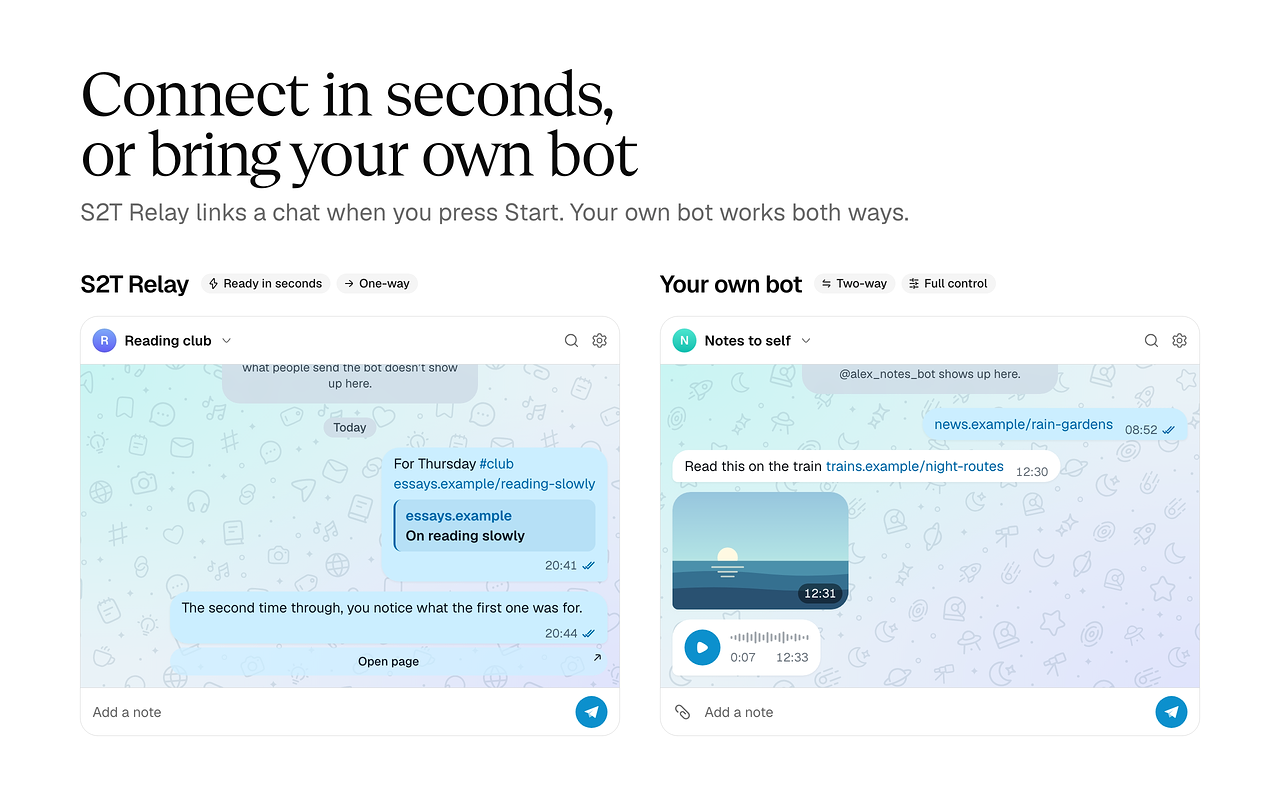
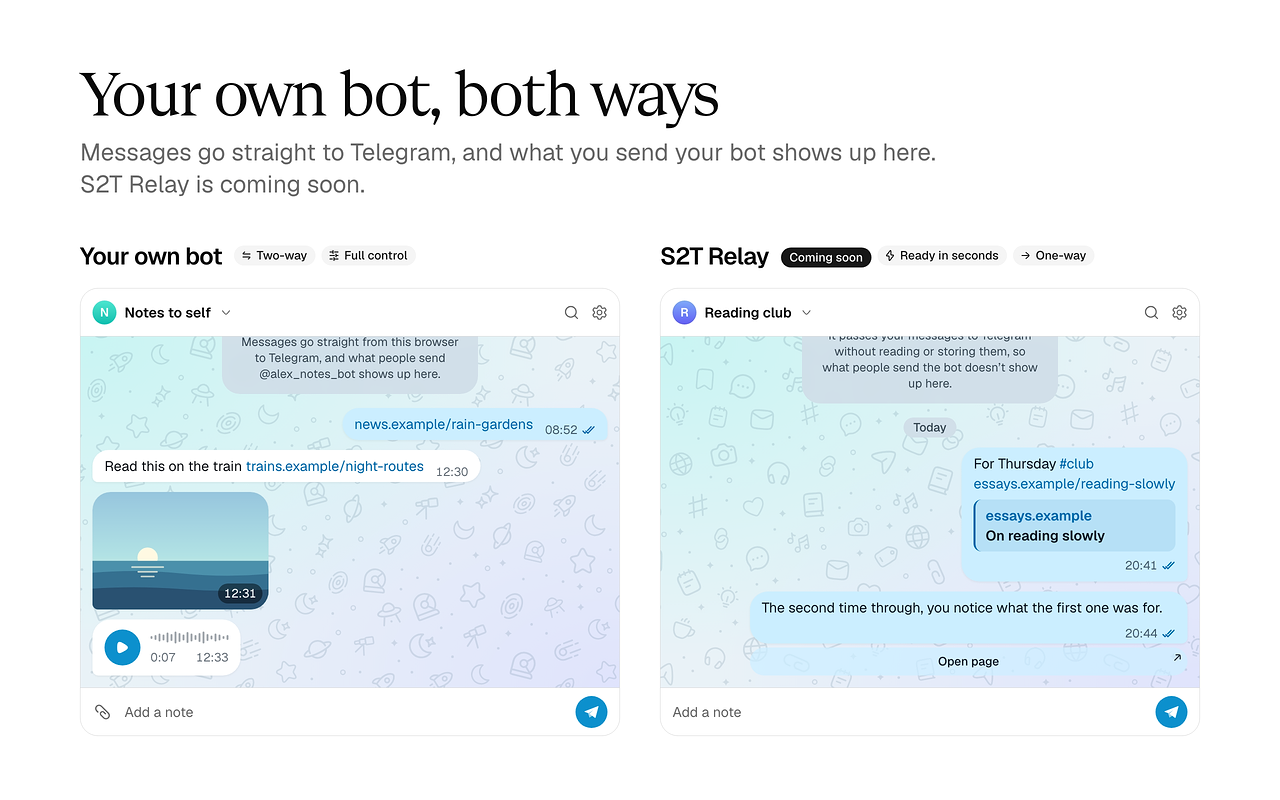
docs(site): mark S2T Relay as coming soon
The connect section, FAQ, privacy policy and the Connect store slide now
describe your own bot as the way to connect, with S2T Relay coming soon.
Recaptures screenshot-4 for every store and theme.

diff --git a/packages/site/src/components/sections/connect.tsx b/packages/site/src/components/sections/connect.tsx
@@ -61,6 +61,8 @@ const rows = [
 type Way = {
   id: string;
   title: string;
+  /** Not in the extension yet. */
+  soon?: boolean;
   badges: { icon: typeof BotIcon; label: string }[];
   summary: string;
   route: ReactNode;
@@ -70,73 +72,6 @@ type Way = {
 };
 
 const ways: Way[] = [
-  {
-    id: 'relay',
-    title: 'S2T Relay',
-    badges: [
-      { icon: FlashIcon, label: 'Ready in seconds' },
-      { icon: ArrowRight02Icon, label: 'One-way' },
-    ],
-    summary:
-      'Press Start in Telegram and the chat is linked. A small relay passes your messages on to Telegram without reading or storing them.',
-    route: (
-      <Route>
-        <Stop label="This browser" align="start">
-          <HugeiconsIcon icon={BrowserIcon} strokeWidth={1.8} aria-hidden />
-        </Stop>
-        <Leg>
-          <Dot className="animate-travel" />
-        </Leg>
-        <Stop label="relay.s2t.dev">
-          <HugeiconsIcon icon={Shield01Icon} strokeWidth={1.8} aria-hidden />
-        </Stop>
-        <Leg>
-          <Dot className="animate-travel-next" />
-        </Leg>
-        <Telegram />
-      </Route>
-    ),
-    chat: (
-      <ChatWindow
-        label="A chat sent with S2T Relay: a link with a note and #club, then a quote with an Open page button"
-        name="Reading club"
-        tone="violet"
-        pattern="doodles"
-      >
-        <ServiceNote icon={Shield01Icon} title="Sent with S2T Relay">
-          It passes your messages to Telegram without reading or storing them,
-          so what people send the bot doesn’t show up here.
-        </ServiceNote>
-        <DayMarker>Today</DayMarker>
-        <Outgoing
-          time="20:41"
-          card={<LinkCard site="essays.example" title="On reading slowly" />}
-        >
-          {'For Thursday '}
-          <Accent>#club</Accent>
-          {'\n'}
-          <Accent>essays.example/reading-slowly</Accent>
-        </Outgoing>
-        <Outgoing time="20:44" button="Open page">
-          The second time through, you notice what the first one was for.
-        </Outgoing>
-      </ChatWindow>
-    ),
-    facts: {
-      setup: 'Press Start in Telegram.',
-      time: 'A few seconds.',
-      stored:
-        'A hash of your browser’s token, its name (such as “Chrome on macOS”) and the chat it sends to. Never your messages.',
-      incoming:
-        'Messages sent to the chat stay in Telegram. The relay only sends one way.',
-      files:
-        'Text, links, pages and images. Attaching a file needs your own bot.',
-    },
-    more: {
-      href: links.relay,
-      label: 'Read the relay’s code, or host your own',
-    },
-  },
   {
     id: 'own-bot',
     title: 'Your own bot',
@@ -198,6 +133,74 @@ const ways: Way[] = [
     },
     more: { href: links.botFather, label: 'Open @BotFather in Telegram' },
   },
+  {
+    id: 'relay',
+    title: 'S2T Relay',
+    soon: true,
+    badges: [
+      { icon: FlashIcon, label: 'Ready in seconds' },
+      { icon: ArrowRight02Icon, label: 'One-way' },
+    ],
+    summary:
+      'Press Start in Telegram and the chat is linked. A small relay passes your messages on to Telegram without reading or storing them.',
+    route: (
+      <Route>
+        <Stop label="This browser" align="start">
+          <HugeiconsIcon icon={BrowserIcon} strokeWidth={1.8} aria-hidden />
+        </Stop>
+        <Leg>
+          <Dot className="animate-travel" />
+        </Leg>
+        <Stop label="relay.s2t.dev">
+          <HugeiconsIcon icon={Shield01Icon} strokeWidth={1.8} aria-hidden />
+        </Stop>
+        <Leg>
+          <Dot className="animate-travel-next" />
+        </Leg>
+        <Telegram />
+      </Route>
+    ),
+    chat: (
+      <ChatWindow
+        label="A chat sent with S2T Relay: a link with a note and #club, then a quote with an Open page button"
+        name="Reading club"
+        tone="violet"
+        pattern="doodles"
+      >
+        <ServiceNote icon={Shield01Icon} title="Sent with S2T Relay">
+          It passes your messages to Telegram without reading or storing them,
+          so what people send the bot doesn’t show up here.
+        </ServiceNote>
+        <DayMarker>Today</DayMarker>
+        <Outgoing
+          time="20:41"
+          card={<LinkCard site="essays.example" title="On reading slowly" />}
+        >
+          {'For Thursday '}
+          <Accent>#club</Accent>
+          {'\n'}
+          <Accent>essays.example/reading-slowly</Accent>
+        </Outgoing>
+        <Outgoing time="20:44" button="Open page">
+          The second time through, you notice what the first one was for.
+        </Outgoing>
+      </ChatWindow>
+    ),
+    facts: {
+      setup: 'Press Start in Telegram.',
+      time: 'A few seconds.',
+      stored:
+        'A hash of your browser’s token, its name (such as “Chrome on macOS”) and the chat it sends to. Never your messages.',
+      incoming:
+        'Messages sent to the chat stay in Telegram. The relay only sends one way.',
+      files:
+        'Text, links, pages and images. Attaching a file needs your own bot.',
+    },
+    more: {
+      href: links.relay,
+      label: 'Read the relay’s code',
+    },
+  },
 ];
 
 /** One way's name, badges and chat, without the rest, for the store pictures. */
@@ -210,7 +213,7 @@ export function WayPreview({ id }: { id: string }) {
     <div className="flex size-full flex-col gap-4">
       <div className="flex items-center gap-3">
         <h2 className="text-2xl font-semibold tracking-tight">{way.title}</h2>
-        <WayBadges badges={way.badges} />
+        <WayBadges way={way} />
       </div>
       <div className="min-h-0 flex-1">{way.chat}</div>
     </div>
@@ -224,8 +227,8 @@ export function Connect() {
       className="page flex flex-col gap-14 py-24"
     >
       <SectionHeading id="connect" title="Two ways to connect a chat">
-        Link a chat in seconds with S2T Relay, or use your own bot for a direct,
-        two-way connection. Each chat can use either.
+        Use your own bot for a direct, two-way connection. S2T Relay, which
+        links a chat in seconds, is coming soon.
       </SectionHeading>
       <div className="grid gap-y-20 lg:grid-cols-2 lg:gap-x-16 lg:gap-y-6">
         {ways.map((way) => (
@@ -242,7 +245,7 @@ export function Connect() {
                 >
                   {way.title}
                 </h3>
-                <WayBadges badges={way.badges} />
+                <WayBadges way={way} />
               </div>
               <p className="text-muted-foreground">{way.summary}</p>
             </div>
@@ -282,10 +285,15 @@ export function Connect() {
 }
 
 /** What sets a way apart, in a word or two each. */
-function WayBadges({ badges }: { badges: Way['badges'] }) {
+function WayBadges({ way }: { way: Way }) {
   return (
     <ul className="flex flex-wrap gap-1.5">
-      {badges.map((badge) => (
+      {way.soon ? (
+        <li>
+          <Badge>Coming soon</Badge>
+        </li>
+      ) : null}
+      {way.badges.map((badge) => (
         <li key={badge.label}>
           <Badge variant="secondary">
             <HugeiconsIcon

diff --git a/packages/site/src/components/privacy-policy.tsx b/packages/site/src/components/privacy-policy.tsx
@@ -6,7 +6,7 @@ export function Privacy() {
     <Article
       title="Privacy policy"
       lede="Send to Telegram keeps as little as it can. This page lists everything it stores, where it keeps it, and how to remove it."
-      note="Last updated 1 November 2026"
+      note="Last updated 4 November 2026"
     >
       <ArticleSection title="The short version">
         <ul>
@@ -16,8 +16,8 @@ export function Privacy() {
           </li>
           <li>Your chats, bot tokens and history stay in your browser.</li>
           <li>
-            S2T Relay passes your messages on to Telegram and never stores or
-            logs them.
+            Messages go straight from your browser to Telegram, with nothing in
+            between.
           </li>
         </ul>
       </ArticleSection>
@@ -41,58 +41,19 @@ export function Privacy() {
 
       <ArticleSection title="When you send">
         <p>
-          With your own bot, the extension sends straight to Telegram’s Bot API
-          at api.telegram.org, using your bot’s token. Nothing sits in between.
-        </p>
-        <p>
-          With S2T Relay, it sends to relay.s2t.dev, which hands the message to
-          Telegram. Once delivered, your messages are covered by{' '}
+          The extension sends straight to Telegram’s Bot API at
+          api.telegram.org, using your bot’s token. Nothing sits in between.
+          Once delivered, your messages are covered by{' '}
           <a href={links.telegramPrivacy}>Telegram’s privacy policy</a>.
         </p>
       </ArticleSection>
 
-      <ArticleSection title="What S2T Relay stores">
-        <p>For each browser linked to a chat, the relay keeps:</p>
-        <ul>
-          <li>
-            A SHA-256 hash of the browser’s random token, never the token itself
-          </li>
-          <li>The browser’s name, such as “Chrome on macOS”</li>
-          <li>The chat it sends to: its ID, title and type</li>
-          <li>When it was linked and when it was last used</li>
-          <li>
-            While linking, a one-time code that expires. Links that are never
-            finished are deleted every day.
-          </li>
-        </ul>
+      <ArticleSection title="S2T Relay">
         <p>
-          <strong>Your messages aren’t stored or logged.</strong> The relay
-          passes them to Telegram and keeps nothing. Request logging is off, and
-          errors are logged by type only.
+          S2T Relay, a way to connect a chat without your own bot, is coming
+          soon. The extension doesn’t use it yet. Before it does, this page will
+          list what the relay stores.
         </p>
-        <p>
-          Your IP address is used only to limit how many requests one network
-          can make in a minute. It isn’t written to the relay’s database.
-        </p>
-        <p>
-          The relay runs on Cloudflare Workers, so Cloudflare handles its
-          requests. Its code is <a href={links.relay}>open source</a>, and you
-          can host your own.
-        </p>
-      </ArticleSection>
-
-      <ArticleSection title="Removing a browser from the relay">
-        <ul>
-          <li>Remove the chat in the extension’s settings.</li>
-          <li>
-            Or send /devices to @S2TRelayBot in the chat and unlink the browser
-            there.
-          </li>
-          <li>
-            Removing or blocking the bot deletes every browser linked to that
-            chat.
-          </li>
-        </ul>
       </ArticleSection>
 
       <ArticleSection title="Permissions">

diff --git a/packages/site/src/components/faq.tsx b/packages/site/src/components/faq.tsx
@@ -20,10 +20,10 @@ const questions: { question: string; answer: ReactNode }[] = [
     question: 'Do I need to create a Telegram bot?',
     answer: (
       <p>
-        No. With S2T Relay, you press Start in Telegram and the chat is linked
-        in seconds. Create your own bot with{' '}
-        <a href={links.botFather}>@BotFather</a> when you want what’s sent to
-        the chat to show up in the popup, or to send files.
+        Yes, for now. Create one with <a href={links.botFather}>@BotFather</a>{' '}
+        and paste its token; the extension walks you through it in about two
+        minutes. S2T Relay, coming soon, will link a chat when you press Start
+        in Telegram, with no bot of your own.
       </p>
     ),
   },
@@ -31,11 +31,12 @@ const questions: { question: string; answer: ReactNode }[] = [
     question: 'Can S2T Relay read what I send?',
     answer: (
       <p>
-        It passes your messages on to Telegram, but never stores or logs them,
-        and <a href={links.relay}>its code is public</a>. If you’d rather
-        nothing sits in between, use your own bot: the extension then talks to
-        Telegram directly. The <a href="/privacy">privacy policy</a> lists
-        everything the relay keeps.
+        It’s built to pass your messages on to Telegram without storing or
+        logging them, and <a href={links.relay}>its code is public</a>. The
+        extension doesn’t use it yet. Before it does, the{' '}
+        <a href="/privacy">privacy policy</a> will list everything the relay
+        keeps. With your own bot, nothing sits in between: the extension talks
+        to Telegram directly.
       </p>
     ),
   },
@@ -51,12 +52,7 @@ const questions: { question: string; answer: ReactNode }[] = [
   },
   {
     question: 'Can I send files?',
-    answer: (
-      <p>
-        With your own bot, yes: attach one in the popup, or paste or drop it in.
-        S2T Relay sends text, links, pages and images.
-      </p>
-    ),
+    answer: <p>Yes: attach one in the popup, or paste or drop it in.</p>,
   },
   {
     question: 'Why does it ask for access to api.telegram.org?',
@@ -99,16 +95,6 @@ const questions: { question: string; answer: ReactNode }[] = [
     ),
   },
   {
-    question: 'Can I host the relay myself?',
-    answer: (
-      <p>
-        Yes. It runs on Cloudflare Workers, and{' '}
-        <a href={links.relay}>its README</a> walks through setting it up. Build
-        the extension with WXT_RELAY_URL set to your relay’s address.
-      </p>
-    ),
-  },
-  {
     question: 'Something’s broken. Where do I report it?',
     answer: (
       <p>
@@ -123,7 +109,7 @@ export function Faq() {
   return (
     <Article
       title="Questions and answers"
-      lede="What people ask about the extension, S2T Relay and connecting your own bot."
+      lede="What people ask about the extension, connecting your own bot and S2T Relay."
     >
       <div className="flex flex-col border-b">
         {questions.map((item) => (

diff --git a/packages/site/src/components/store-slides.tsx b/packages/site/src/components/store-slides.tsx
@@ -103,12 +103,12 @@ export function PopupSlide() {
 export function ConnectSlide() {
   return (
     <Slide
-      title="Connect in seconds, or bring your own bot"
-      text="S2T Relay links a chat when you press Start. Your own bot works both ways."
+      title="Your own bot, both ways"
+      text="Messages go straight to Telegram, and what you send your bot shows up here. S2T Relay is coming soon."
     >
       <div className="grid h-full grid-cols-2 grid-rows-1 gap-10 pb-16">
-        <WayPreview id="relay" />
         <WayPreview id="own-bot" />
+        <WayPreview id="relay" />
       </div>
     </Slide>
   );

diff --git a/packages/site/src/routes/faq.tsx b/packages/site/src/routes/faq.tsx
@@ -3,7 +3,7 @@ import { createFileRoute } from '@tanstack/react-router';
 import { Faq } from '@/components/faq';
 
 const description =
-  'Answers about Send to Telegram: browsers, S2T Relay, your own bot, files, the password lock and more.';
+  'Answers about Send to Telegram: browsers, your own bot, files, the password lock, S2T Relay and more.';
 
 export const Route = createFileRoute('/faq')({
   head: () => ({

diff --git a/packages/site/src/routes/privacy.tsx b/packages/site/src/routes/privacy.tsx
@@ -3,7 +3,7 @@ import { createFileRoute } from '@tanstack/react-router';
 import { Privacy } from '@/components/privacy-policy';
 
 const description =
-  'What Send to Telegram and S2T Relay store, where they keep it, and how to remove it.';
+  'What Send to Telegram stores, where it keeps it, and how to remove it.';
 
 export const Route = createFileRoute('/privacy')({
   head: () => ({
